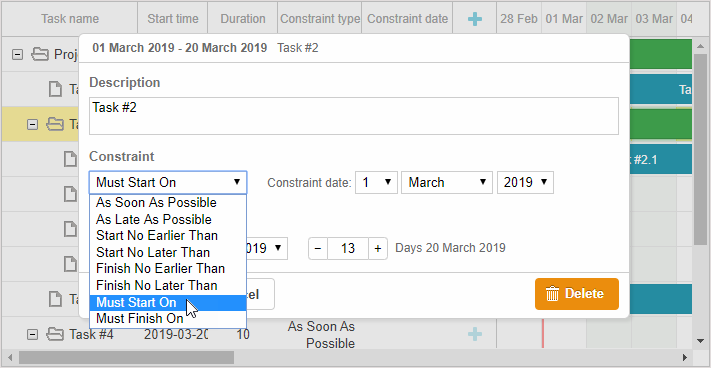
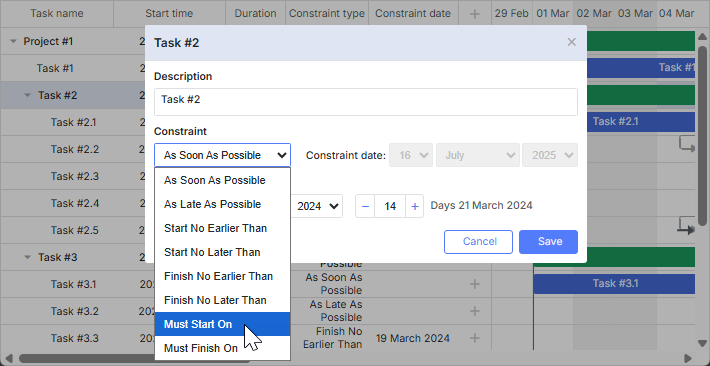
[update] 'Auto Scheduling' article
Modernizes the documentation

diff --git a/data/desktop/auto_scheduling.md b/data/desktop/auto_scheduling.md
@@ -61,7 +61,7 @@ In this case planning of tasks is implemented from the start date or from the da
 The start date of the project can be optionally set by the **gantt.config.project_start** config:
 
 ~~~js
-gantt.config.project_start = new Date(2019, 2, 1);
+gantt.config.project_start = new Date(2025, 2, 1);
 ~~~
 
 {{sample 02_extensions/19_constraints_scheduling.html}}
@@ -73,7 +73,7 @@ via the **gantt.config.project_end** configuration option:
 
 ~~~js
 gantt.config.schedule_from_end = true;
-gantt.config.project_end = new Date(2019, 4, 1);
+gantt.config.project_end = new Date(2025, 4, 1);
 ~~~
 
 In this case tasks are planned as late as possible. The last task should end on the end date of the project.
@@ -94,9 +94,9 @@ You can specify constraints for a task via the [**Constraint** control](desktop/
 
 ~~~js
 gantt.config.lightbox.sections = [
-	{ name:"description", height:38, map_to:"text", type:"textarea", focus:true},
-	{ name:"constraint", type:"constraint" }, /*!*/
-	{ name:"time", type:"duration", map_to:"auto" }
+	{ name: "description", height: 38, map_to: "text", type: "textarea", focus: true},
+	{ name: "constraint", type: "constraint" }, /*!*/
+	{ name: "time", type: "duration", map_to: "auto" }
 ];
 ~~~
 
@@ -119,22 +119,22 @@ const constraintTypeEditor = {
 };
 
 const constraintDateEditor = {
-    type: "date",
-    map_to: "constraint_date",
-    min: new Date(2019, 0, 1),
-    max: new Date(2020, 0, 1)
+	type: "date",
+	map_to: "constraint_date",
+	min: new Date(2025, 0, 1),
+	max: new Date(2026, 0, 1)
 };
 
 gantt.config.columns = [
-	{ // previous column},
+	{ /* previous column */ },
 	{
-		name:"constraint_type", align:"center", width:100, template:function (task){
-			return gantt.locale.labels[gantt.getConstraintType(task)];
-		}, resize: true, editor: constraintTypeEditor
+		name: "constraint_type", align: "center", width: 100,
+		template: task => gantt.locale.labels[gantt.getConstraintType(task)],
+		resize: true, editor: constraintTypeEditor
 	},
 	{
-		name:"constraint_date", align:"center", width:120, template:function (task) {
-		//template logic
+		name: "constraint_date", align: "center", width: 120, template: (task) => {
+			// template logic
 		},
 		resize: true, editor: constraintDateEditor
 	},
@@ -207,18 +207,15 @@ Disabling auto scheduling for specific tasks
 To disable auto scheduling for a particular task and make it manually scheduled, set the **auto_scheduling** property of the task object to *false*:
 
 ~~~js
-var task = gantt.getTask(id);
+const task = gantt.getTask(id);
 task.auto_scheduling = false;
 ~~~
 
 You can also prevent auto scheduling of a specific task using the api/gantt_onbeforetaskautoschedule_event.md handler:
 
 ~~~js
-gantt.attachEvent("onBeforeTaskAutoSchedule",function(task, start, link, predecessor){
-    if(task.completed) {
-        return false;
-    }
-    return true;
+gantt.attachEvent("onBeforeTaskAutoSchedule", (task, start, link, predecessor) => {
+	return !task.completed;
 });
 ~~~
 
@@ -308,7 +305,7 @@ gantt.autoSchedule(taskId);
 In case you need to check whether the task is unscheduled, use the api/gantt_isunscheduledtask.md method with the task object as an argument:
 
 ~~~js
-var isUnscheduled = gantt.isUnscheduledTask(task);
+const isUnscheduled = gantt.isUnscheduledTask(task);
 ~~~
 
 ###Search for circular references
@@ -324,7 +321,7 @@ gantt.findCycles();
 If you need to check whether the link is circular, you can apply the api/gantt_iscircularlink.md method:
 
 ~~~js
-var isCircular = gantt.isCircularLink(link);
+const isCircular = gantt.isCircularLink(link);
 ~~~
 
 ###Getting connected tasks and links
@@ -350,35 +347,35 @@ The list of available events is given below:
 
 ~~~js
 // before auto scheduling starts
-gantt.attachEvent("onBeforeAutoSchedule",function(taskId){
-    // any custom logic here
-    return true;
+gantt.attachEvent("onBeforeAutoSchedule", (taskId) => {
+	// any custom logic here
+	return true;
 });
 
 // after auto scheduling finishes
-gantt.attachEvent("onAfterAutoSchedule",function(taskId, updatedTasks){
-    // any custom logic here
+gantt.attachEvent("onAfterAutoSchedule", (taskId, updatedTasks) => {
+	// any custom logic here
 });
 
 // before a particular task is rescheduled
-gantt.attachEvent("onBeforeTaskAutoSchedule",function(task,start,link,predecessor){
-    // any custom logic here
-    return true;
+gantt.attachEvent("onBeforeTaskAutoSchedule", (task, start, link, predecessor) => {
+	// any custom logic here
+	return true;
 });
 
 // after a particular task is rescheduled
-gantt.attachEvent("onAfterTaskAutoSchedule",function(task,start,link,predecessor){
-    // any custom logic here
+gantt.attachEvent("onAfterTaskAutoSchedule", (task, start, link, predecessor) => {
+	// any custom logic here
 });
 
 // if the circular reference has been detected and auto scheduling is not possible
-gantt.attachEvent("onCircularLinkError",function(link, group){
-    // any custom logic here
+gantt.attachEvent("onCircularLinkError", (link, group) => {
+	// any custom logic here
 });
 
 // if circular links were found during auto scheduling
-gantt.attachEvent("onAutoScheduleCircularLink",function(groups){
-    // any custom logic here
+gantt.attachEvent("onAutoScheduleCircularLink", (groups) => {
+	// any custom logic here
 });
 ~~~
 
